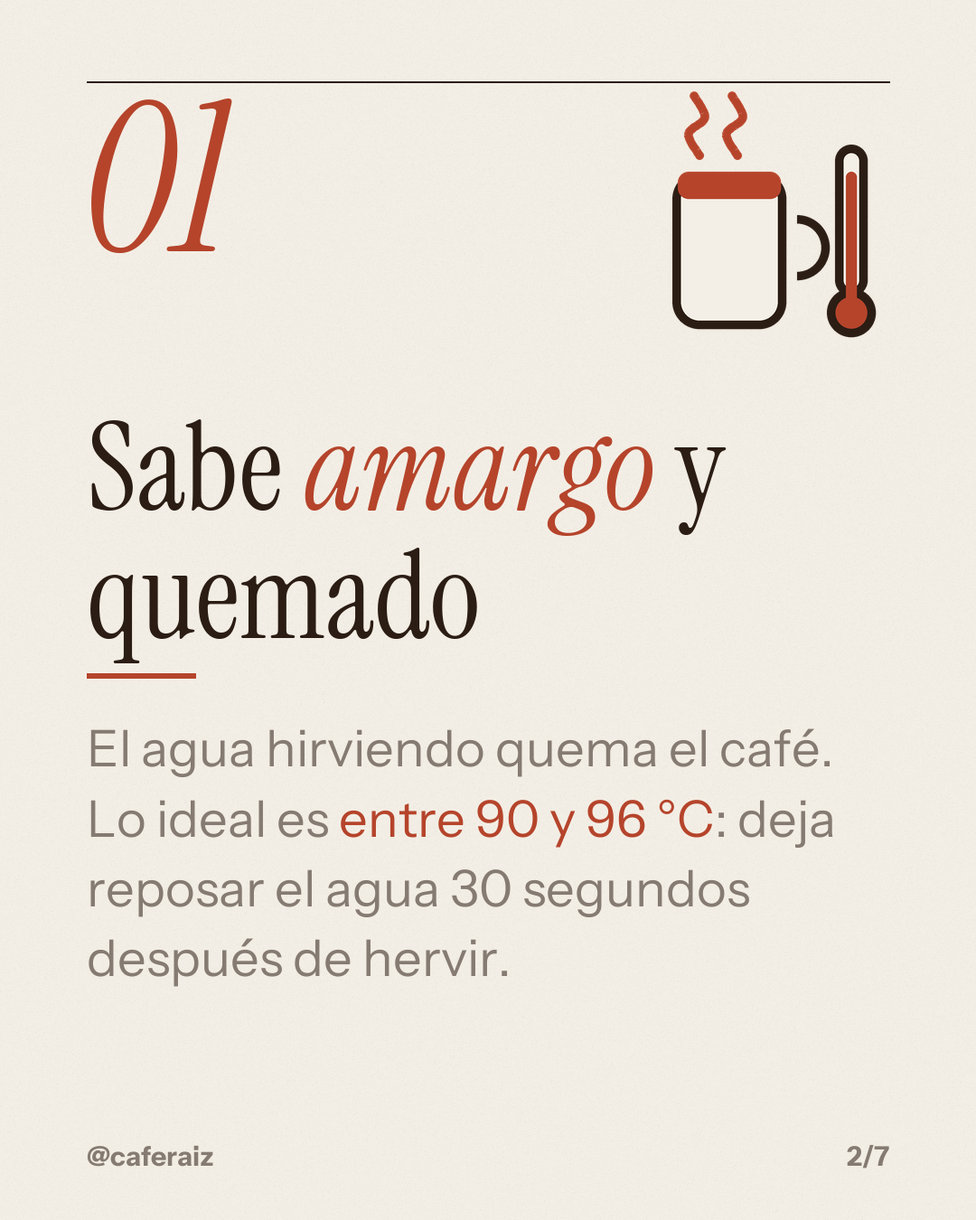
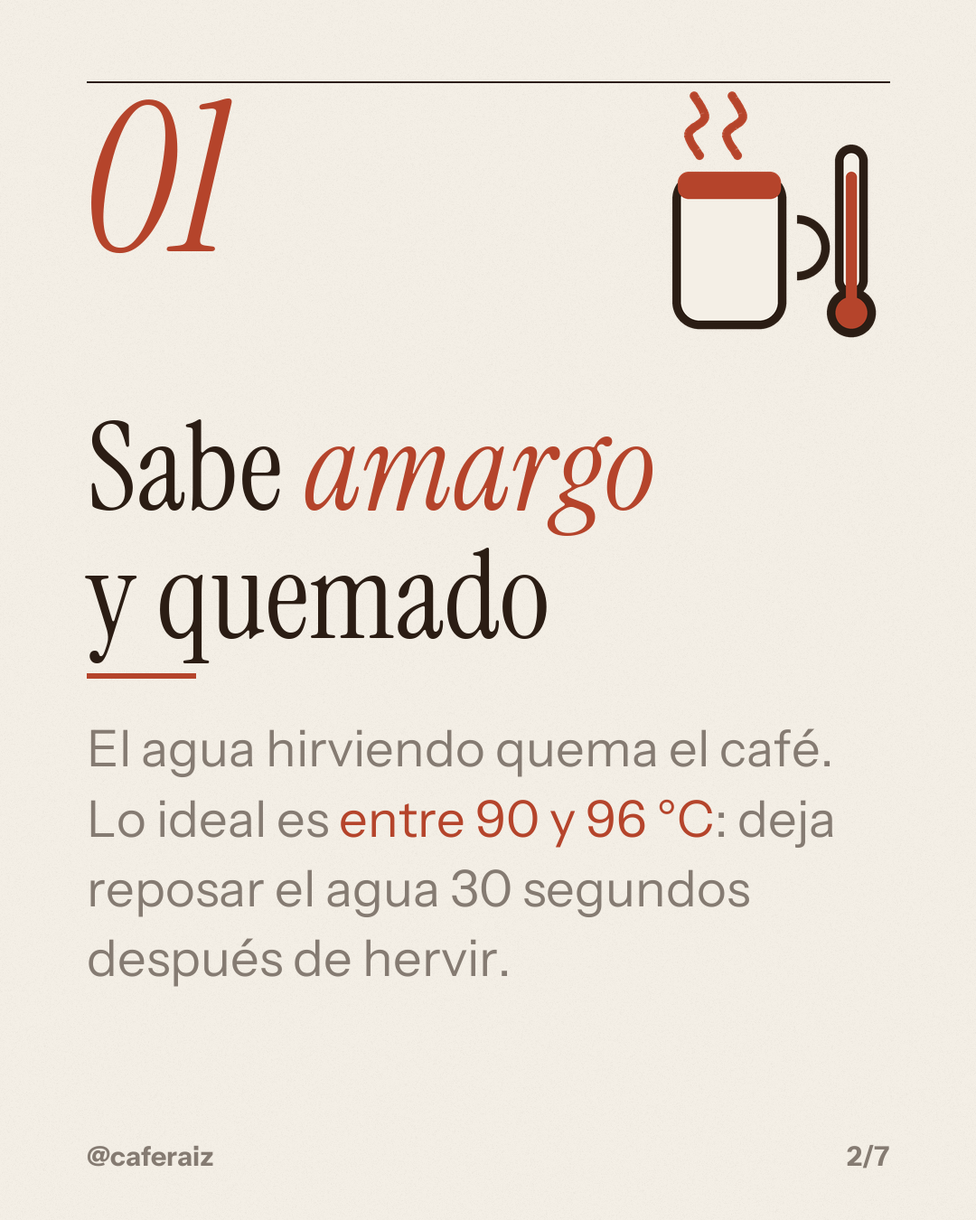
Guía corregida tras recorrerla como persona nueva; motor con atajos (--formato, --cta, --marca, --sin-marca, --solo-portada), comparar.py, vista con la marca elegida

Changed region(s): [[0.0917, 0.4356, 0.5806, 0.56], [0.7028, 0.3733, 0.7333, 0.4356]]

diff --git a/scripts/vista.py b/scripts/vista.py
@@ -1,7 +1,7 @@
 #!/usr/bin/env python3
 """carrusel-pro · enseña el carrusel como se va a ver publicado: dentro de un iPhone, en Instagram o en TikTok.
 
-  python3 vista.py <carpeta del carrusel> [--guion guion.json] [--red instagram|tiktok]
+  python3 vista.py <carpeta del carrusel> [--guion guion.json] [--marca marca.json] [--red instagram|tiktok]
 
 Lee 01.png (y cuenta las láminas), la marca del guion (logo y @usuario) y, si existe, descripcion.txt.
 Deja `vista-instagram.png` o `vista-tiktok.png` (1080×1350) en la carpeta e imprime:  VISTA <ruta>
@@ -15,7 +15,8 @@ AQUI = os.path.dirname(os.path.abspath(__file__))
 sys.path.insert(0, AQUI)
 import marcos
 
-W, H = 1170, 2532          # pantalla de iPhone 15 a 3x
+W, H = 1170, 2532
+ACENTO = {}                # color e inicial de la marca para la foto de perfil cuando no hay logo          # pantalla de iPhone 15 a 3x
 NEGRO, GRIS, BLANCO = (0, 0, 0), (115, 115, 115), (255, 255, 255)
 
 
@@ -32,8 +33,15 @@ def avatar(logo, lado, color=(226, 61, 46)):
         base = Image.new("RGBA", (lado, lado), BLANCO + (255,))
         lg.thumbnail((int(lado * 0.8), int(lado * 0.8)))
         base.alpha_composite(lg, ((lado - lg.width) // 2, (lado - lg.height) // 2))
-    else:
+    else:                                     # sin logo: el color de su marca con su inicial
+        color = ACENTO.get("c", color)
         base = Image.new("RGBA", (lado, lado), color + (255,))
+        ini = ACENTO.get("ini", "")
+        if ini:
+            fi = f("InstrumentSans-Bold.ttf", lado * 0.5)
+            dd = ImageDraw.Draw(base)
+            claro = sum(color) > 480
+            dd.text((lado / 2 - fi.getlength(ini) / 2, lado * 0.2), ini, font=fi, fill=(17, 17, 17) if claro else BLANCO)
     a.paste(base, (0, 0), m)
     return a
 
@@ -188,7 +196,7 @@ def tiktok(lam, n, usuario, logo, desc):
 
 def main():
     a = sys.argv[1:]
-    if not a:
+    if not a or a[0] in ("-h", "--help"):
         print(__doc__); sys.exit(1)
     carpeta = a[0]
     guion = a[a.index("--guion") + 1] if "--guion" in a else None
@@ -198,17 +206,27 @@ def main():
         marca = json.load(open(guion, encoding="utf-8")).get("marca", {})
         if marca.get("logo") and not os.path.isabs(marca["logo"]):
             marca["logo"] = os.path.join(os.path.dirname(os.path.abspath(guion)), marca["logo"])
+    if "--marca" in a:                       # la marca elegida (marca.json de marca.py o inventada) manda
+        mj = a[a.index("--marca") + 1]
+        mm = json.load(open(mj, encoding="utf-8"))
+        marca = {"usuario": mm.get("usuario") or "@" + "".join(ch for ch in (mm.get("nombre") or "tu_marca").lower() if ch.isalnum()),
+                 "logo": mm.get("logo") if mm.get("logo") and os.path.exists(mm["logo"]) else None}
     pngs = sorted(x for x in os.listdir(carpeta) if x[:2].isdigit() and x.endswith(".png"))
     subs = [r for r in ("instagram", "tiktok") if os.path.isdir(os.path.join(carpeta, r))]
     if not pngs and subs and "--red" not in a:     # formato "ambos"/"todos": una vista por red
         import subprocess
         for r in subs:
             subprocess.run([sys.executable, os.path.abspath(__file__), os.path.join(carpeta, r)] +
-                           (["--guion", guion] if guion else []) + ["--red", r])
+                           (["--guion", guion] if guion else []) +
+                           (["--marca", a[a.index("--marca") + 1]] if "--marca" in a else []) + ["--red", r])
         return
     if not pngs:
         print("NADA no hay láminas (01.png…) en esa carpeta"); sys.exit(2)
     lam = Image.open(os.path.join(carpeta, pngs[0]))
+    col = (mm if "--marca" in a else marca).get("colores", {}).get("acento") if ("--marca" in a or marca) else None
+    if col:
+        ACENTO["c"] = tuple(int(col.lstrip("#")[i:i + 2], 16) for i in (0, 2, 4))
+    ACENTO["ini"] = (marca.get("usuario") or "@").lstrip("@")[:1].upper()
     desc = ""
     for cand in (os.path.join(carpeta, "descripcion.txt"), os.path.join(os.path.dirname(os.path.normpath(carpeta)), "descripcion.txt")):
         if os.path.exists(cand):

diff --git a/scripts/carrusel.py b/scripts/carrusel.py
@@ -103,7 +103,7 @@ def lineas(texto, f, ancho):
             actual.append((pal, enf, peg and bool(actual)))
             w_act += (esp if len(actual) > 1 and not peg else 0) + w
         # sin palabra suelta en el último renglón ("…al día / 1"): se baja una palabra del renglón de arriba
-        if res and len(actual) == 1 and len(res[-1]) >= 3 and not actual[0][2]:
+        if res and len(actual) == 1 and len(res[-1]) >= 2 and not actual[0][2]:
             prueba = [res[-1][-1]] + actual
             if ancho_linea(prueba, f) <= ancho:
                 res[-1], actual = res[-1][:-1], prueba
@@ -679,9 +679,27 @@ def render(guion, salida):
     return rutas
 
 
+def opciones(args):
+    """Atajos para no tener que copiar ni editar el guion:
+    --formato instagram|tiktok|linkedin|ambos|todos · --cta "texto del cierre" · --sin-marca (para el «antes»)
+    · --solo-portada (para comparar marcas) · --marca marca.json (usa una marca de marca.py) · --plantilla X"""
+    o, resto, i = {}, [], 0
+    while i < len(args):
+        a = args[i]
+        if a in ("--formato", "--cta", "--marca", "--plantilla"):
+            o[a[2:]] = args[i + 1]; i += 2
+        elif a in ("--sin-marca", "--solo-portada"):
+            o[a[2:]] = True; i += 1
+        else:
+            resto.append(a); i += 1
+    return o, resto
+
+
 if __name__ == "__main__":
-    if len(sys.argv) < 2:
-        print(__doc__)
+    op, argv = opciones(sys.argv[1:])
+    sys.argv = [sys.argv[0]] + argv
+    if len(sys.argv) < 2 or sys.argv[1] in ("-h", "--help"):
+        print(__doc__ + "\n" + opciones.__doc__)
         sys.exit(1)
     try:
         with open(sys.argv[1], encoding="utf-8") as fh:
@@ -692,6 +710,36 @@ if __name__ == "__main__":
     except OSError:
         print(f"ERROR no existe el guion «{sys.argv[1]}»."); sys.exit(2)
     salida = sys.argv[2] if len(sys.argv) > 2 else guion.get("salida", "carrusel")
+    if op.get("formato"):
+        guion["formato"] = op["formato"]
+    if op.get("plantilla"):
+        guion["plantilla"] = op["plantilla"]
+    if op.get("marca"):
+        mj = json.load(open(op["marca"], encoding="utf-8"))
+        usuario_antes = guion.get("marca", {}).get("usuario")
+        guion["marca"] = {k: mj[k] for k in ("nombre", "usuario", "colores", "logo", "fuentes") if mj.get(k)}
+        guion["marca"].setdefault("usuario", usuario_antes or "@" + re.sub(r"\W", "", (mj.get("nombre") or "tu_marca").lower()))
+        bm = os.path.dirname(os.path.abspath(op["marca"]))           # rutas de la marca: junto a su marca.json
+        def en_bm(r):
+            for cand in (r, os.path.join(bm, r), os.path.join(os.path.dirname(bm), r)):
+                if os.path.isabs(cand) and os.path.exists(cand):
+                    return cand
+            return os.path.join(bm, r) if not os.path.isabs(r) else r
+        if guion["marca"].get("logo"):
+            guion["marca"]["logo"] = en_bm(guion["marca"]["logo"])
+        guion["marca"]["fuentes"] = {k: en_bm(v) for k, v in (guion["marca"].get("fuentes") or {}).items()
+                                     if isinstance(v, str)}
+        if mj.get("estilo_sugerido") and not op.get("plantilla"):
+            guion["plantilla"] = mj["estilo_sugerido"]
+    if op.get("sin-marca"):
+        guion["marca"] = {"usuario": "@tu_cuenta"}
+        guion["plantilla"] = op.get("plantilla", "minimal")
+    if op.get("cta"):
+        for sl in guion["slides"]:
+            if sl.get("tipo") == "cierre":
+                sl["cta"] = op["cta"]
+    if op.get("solo-portada"):
+        guion["slides"] = guion["slides"][:1]
     base = os.path.dirname(os.path.abspath(sys.argv[1]))
     # rutas relativas (logo, fotos) se buscan junto al guion
     m = guion.get("marca", {})

diff --git a/scripts/comparar.py b/scripts/comparar.py
@@ -1,0 +1,53 @@
+#!/usr/bin/env python3
+"""carrusel-pro · junta imágenes lado a lado con un número grande (y una etiqueta) encima de cada una,
+para que la persona elija viendo: «¿cuál te gusta? Responde 1, 2 o 3» o el antes y después.
+
+  python3 comparar.py <img1> <img2> [<img3> <img4>] --salida comparar.jpg [--etiquetas "Sin marca" "Con tu marca"]
+
+Imprime:  COMPARAR <ruta>
+"""
+import os, sys
+from PIL import Image, ImageDraw, ImageFont
+
+AQUI = os.path.dirname(os.path.abspath(__file__))
+F = os.path.join(AQUI, "..", "fuentes", "InstrumentSans-Bold.ttf")
+
+
+def main():
+    a = sys.argv[1:]
+    if not a or a[0] in ("-h", "--help"):
+        print(__doc__); sys.exit(1)
+    salida = a[a.index("--salida") + 1] if "--salida" in a else "comparar.jpg"
+    etiquetas = []
+    if "--etiquetas" in a:
+        i = a.index("--etiquetas") + 1
+        while i < len(a) and not a[i].startswith("--"):
+            etiquetas.append(a[i]); i += 1
+    valores = {salida, *etiquetas}
+    imgs = [x for x in a if not x.startswith("--") and x not in valores and os.path.isfile(x)][:4]
+    if len(imgs) < 2:
+        print("ERROR necesito al menos 2 imágenes que existan"); sys.exit(2)
+    ims = [Image.open(x).convert("RGB") for x in imgs]
+    alto = 900
+    ims = [im.resize((int(im.width * alto / im.height), alto), Image.LANCZOS) for im in ims]
+    m, cab = 40, 110
+    W = sum(im.width for im in ims) + m * (len(ims) + 1)
+    hoja = Image.new("RGB", (W, alto + cab + m), (244, 245, 247))
+    d = ImageDraw.Draw(hoja)
+    fn, fe = ImageFont.truetype(F, 64), ImageFont.truetype(F, 40)
+    x = m
+    for k, im in enumerate(ims):
+        d.ellipse([x, 22, x + 70, 92], fill=(17, 17, 17))
+        t = str(k + 1)
+        d.text((x + 35 - fn.getlength(t) / 2, 20), t, font=fn, fill=(255, 255, 255))
+        if k < len(etiquetas):
+            d.text((x + 90, 36), etiquetas[k], font=fe, fill=(17, 17, 17))
+        hoja.paste(im, (x, cab))
+        x += im.width + m
+    os.makedirs(os.path.dirname(os.path.abspath(salida)), exist_ok=True)
+    hoja.save(salida, quality=90)
+    print(f"COMPARAR {salida}")
+
+
+if __name__ == "__main__":
+    main()

diff --git a/guia/leccion-2.md b/guia/leccion-2.md
@@ -1,6 +1,8 @@
 # Lección 2 · Con tu marca (~2 min)
 
-> Guion para Claude. Lee `guia/estilo.md`. Retoma lo que te dijo en el paso 1 (`tema`, `destino`, `objetivo`).
+> Guion para Claude. Lee `guia/estilo.md`. Retoma lo que te dijo en el paso 1 (`tema`, `destino`, `objetivo`). Aquí no hay botones al abrir: el mensaje cierra el turno con opciones numeradas (en la app, el texto antes de unos botones no se lee).
+
+## 1 · Apertura (mensaje propio, cierra el turno)
 
 ```
 ━━━━━━━━━━━━━━━━━━━━━━━━━━━━━━━━━━━━━━━━━━
@@ -9,32 +11,38 @@
 ━━━━━━━━━━━━━━━━━━━━━━━━━━━━━━━━━━━━━━━━━━
 ```
 
-"Tu carrusel ya funciona. Ahora que se vea **tuyo**: que alguien lo vea en el feed y sepa que es de [su negocio / ti] sin leer el nombre."
+"Tu carrusel ya funciona. Ahora que se vea **tuyo**: que alguien lo vea en el feed y sepa que es de [su negocio / ti] sin leer el nombre. Eso es lo que hace que [objetivo: te escriban / te recuerden / te sigan]."
 
-**BOTONES** · "¿De dónde saco tu marca? Nunca necesito tu contraseña ni entrar a tu cuenta."
-- **De mi página web (recomendado)** — "me pasas el link y saco tu logo, tus colores, tu letra y hasta fotos tuyas"
-- **De mi Instagram** — "me mandas una captura de tu perfil y saco tus colores (Instagram no deja leer perfiles desde fuera)"
-- **Invéntame una** — "te propongo 3 marcas y eliges viendo tu portada en cada una"
-- **Te paso mis colores y mi logo** — "códigos de color o una foto de donde salen, y tu logo en PNG"
+"¿De dónde saco tu marca? Nunca necesito tu contraseña ni entrar a tu cuenta:"
+1. **De mi página web** — me pasas el link y saco tu logo, tus colores, tu letra y hasta fotos tuyas
+2. **De mi Instagram** — me mandas una captura de tu perfil y saco tus colores (Instagram no deja leer perfiles desde fuera)
+3. **Invéntame una** — te propongo 3 marcas y eliges viéndolas
+4. **Te paso mis colores y mi logo** — o una foto de donde salen
 
-**ALTO.** Pide lo que haga falta una sola vez (el link, o la captura arrastrándola al chat; rutas de ejemplo genéricas `/Users/tu-nombre/Desktop/perfil.png`). Si dijo "el de ejemplo" en el paso 1 y no tiene nada a la mano, ofrece **Invéntame una**. **ALTO.**
+"Responde 1, 2, 3 o 4 (y si es la 1, pega tu link de una vez)." **ALTO.**
 
-**Aviso antes:** "Saco tu marca y vuelvo a dibujar tu carrusel con ella. Menos de un minuto."
+## 2 · Su marca, en su carrusel
 
-**ACCIÓN:** Paso 2 del SKILL.md (`marca.py web` o `marca.py capturas`; con "Invéntame una", 3 portadas lado a lado). Si sacó fotos de su página, úsalas en la portada. Renderiza **todo el carrusel** con su marca y su @usuario, saca la vista y arma una imagen `antes-despues.jpg` con la portada sin marca a la izquierda y con marca a la derecha. **Míralas** antes de enseñarlas.
+Si eligió 2 o 4 y no mandó lo que hace falta, pídelo una sola vez (la captura se arrastra al chat; rutas de ejemplo genéricas `/Users/tu-nombre/Desktop/perfil.png`). **ALTO.**
+
+**Aviso (una línea):** "Saco tu marca y vuelvo a dibujar tu carrusel con ella. Menos de un minuto."
+
+**ACCIÓN, en silencio** (`<guion>` = el guion del paso 1; con el ejemplo, `<skill>/ejemplos/cafeteria.json`; agrega siempre `--formato` y `--cta` del paso 1):
+- **1 o 2:** Paso 2 del SKILL.md (`marca.py web` o `marca.py capturas`) → `<trabajo>/marca/marca.json`. Si sacó fotos de su página, ponle la primera a la portada.
+- **4:** arma tú `<trabajo>/marca/marca.json` con sus colores, logo y letra (si da el nombre de una letra: `fuentes.py bajar`).
+- **3 · Invéntame una:** 3 identidades distintas, **cada una con nombre y @ inventados** que le queden a su tema (p. ej. «Café Brasa · @cafebrasa»), su paleta y una letra de `fuentes.py ideas`. Escribe 3 `marca.json` (`<trabajo>/marca-1/`, `-2/`, `-3/`), dibuja solo la portada de cada una (`carrusel.py <guion> <trabajo>/opcion-1 --marca <trabajo>/marca-1/marca.json --solo-portada`) y júntalas: `comparar.py <…>/opcion-1/01.png <…>/opcion-2/01.png <…>/opcion-3/01.png --salida <trabajo>/3-marcas.jpg --etiquetas "<nombre 1>" "<nombre 2>" "<nombre 3>"`.
+- **El antes y después** (1, 2 y 4): `carrusel.py <guion> <trabajo>/antes --sin-marca --solo-portada`, todo el carrusel con su marca (`carrusel.py <guion> <trabajo>/listo --marca <trabajo>/marca/marca.json`), y `comparar.py <trabajo>/antes/01.png <trabajo>/listo/01.png --salida <trabajo>/antes-despues.jpg --etiquetas "Sin marca" "Con tu marca"`. Saca la vista nueva (`vista.py <trabajo>/listo --guion <guion> --marca <trabajo>/marca/marca.json`). **Mira todo** antes de enseñarlo.
 
 **MENSAJE obligatorio (cierra el turno):**
-- **Resultado:** `marca.jpg` (lo que saqué: logo, colores y su letra, dicha por su nombre; si es una parecida porque la suya es de pago, dilo) y `antes-despues.jpg`, luego la vista nueva.
-- Con 3 opciones: "¿Cuál te gusta? Responde 1, 2 o 3." Con su marca: "¿Así se siente como tú? Responde «sí» o dime qué no te late."
+- **1, 2 o 4:** `marca.jpg` (lo que saqué: logo, colores y **su letra, por su nombre**; si es una parecida porque la suya es de pago, dilo), `antes-despues.jpg` y la vista nueva. Una línea sobre su objetivo ("Con tu logo arriba, quien lo vea ya sabe a quién escribirle").
+- **3:** `3-marcas.jpg` y en una línea qué tiene cada una ("1 · Café Brasa: cálida y artesanal · 2 · …").
+- Cierra con **una sola lista** (así se piden cambios, nada más fácil):
+  - Con su marca: "¿Cómo lo dejamos? 1 · Así está perfecto · 2 · Un gancho más fuerte · 3 · Otra letra o estilo · 4 · Otra imagen. Responde con el número."
+  - Con 3 opciones: "¿Cuál te gusta? Responde 1, 2 o 3."
 
-**ALTO.** Si eligió o corrigió, aplícalo y míralo.
+**ALTO.**
+- **Eligió una de las 3:** dibuja todo el carrusel con esa marca (`--marca <trabajo>/marca-N/marca.json`), saca la vista (`vista.py … --marca <trabajo>/marca-N/marca.json`) y enséñala en un mensaje con la misma lista de cambios (1 · Así está perfecto…). **ALTO.**
+- **Pidió un cambio (2, 3 o 4):** hazlo (con «otra letra»: `fuentes.py muestra` con 3 que le van y que elija con el número), dibuja, míralo y enséñalo en un mensaje con una línea de qué cambió y la misma lista. **ALTO.**
+- **Así está perfecto:** sigue al cierre.
 
-**BOTONES** · "Ya tiene tu marca. ¿Le cambio algo? Así de fácil se piden cambios."
-- **Así está perfecto** — "pasamos al último paso"
-- **Un gancho más fuerte** — "reescribo la portada para que den ganas de deslizar"
-- **Otra letra o estilo** — "te enseño 3 letras que le van a tu marca, o lo paso a Editorial, Minimal, Bloque o Cuaderno"
-- **Otra imagen** — "cambio la foto o el dibujo que no te convenza"
-
-**ALTO.** Haz el cambio, renderiza, míralo y celébralo en una línea.
-
-**Cierre:** **Lo que lograste** (3 viñetas) y "En el último paso lo dejamos listo para subir en todas tus redes, con la descripción. Escríbeme «sigue»." **ALTO.** Guarda `"leccion": 3`.
+**Cierre (en el mensaje del «así está perfecto»):** **Lo que lograste** (3 viñetas) y "En el último paso lo dejamos listo para subir en todas tus redes, con la descripción. Escríbeme «sigue»." **ALTO.** Guarda `"leccion": 3`.

diff --git a/guia/leccion-1.md b/guia/leccion-1.md
@@ -1,6 +1,6 @@
 # Lección 1 · Tu primer carrusel (~2 min)
 
-> Guion para Claude. Antes lee `guia/estilo.md`. Entre comillas va la idea de lo que dices (con tus palabras). **ACCIÓN** = lo haces tú. **BOTONES** = pregunta con `AskUserQuestion` (si no existe, lista numerada corta). **ALTO** = esperas. Nunca sigas sin respuesta. Progreso en `~/.dakexplica/dak-carrusel-pro.json` (`"leccion": 1`). En la app de Claude no hay archivo: lleva el progreso en el chat.
+> Guion para Claude. Antes lee `guia/estilo.md`. Entre comillas va la idea de lo que dices (con tus palabras). **ACCIÓN** = lo haces tú. **BOTONES** = pregunta con `AskUserQuestion` (si no existe, lista numerada corta). **ALTO** = esperas. Nunca sigas sin respuesta. Progreso en `~/.dakexplica/dak-carrusel-pro.json` (`"leccion": 1`). En la app de Claude no hay archivo: lleva el progreso en el chat. `<trabajo>` = `~/carrusel-pro/<tema-corto>/` (con el ejemplo, `~/carrusel-pro/ejemplo-cafeteria/`).
 
 ## 1 · Bienvenida (tu PRIMER mensaje, antes de cualquier botón o comando)
 
@@ -22,14 +22,16 @@
 
 - Si no sabes su nombre: "¡Hola! Bienvenido a la guía 👋" y cierra con **"Antes de empezar, ¿cómo te llamo?"**. Si lo sabes: **"Cuando estés listo, escríbeme «vamos»."** **ALTO** (fin del turno). Guarda `"nombre"`.
 
-**Siguiente turno:** reacciona en una línea ("¡Mucho gusto, [nombre]!") y **BOTONES** (tres preguntas en la misma ventana):
+**Siguiente turno:** reacciona en una línea ("¡Mucho gusto, [nombre]!") y **BOTONES** (tres preguntas en la misma ventana; lo importante va dentro de cada opción):
 1. "¿De qué hacemos tu primer carrusel?"
    - **De lo mío** — "tu negocio, tu trabajo o un tema que te guste; me lo escribes en el siguiente paso"
    - **El de ejemplo** — "una cafetería: cómo saber si tu café está mal hecho. Sale en segundos"
 2. "¿Dónde lo vas a publicar?" · **Instagram** · **TikTok (modo foto)** · **LinkedIn** · **Todo lo anterior**
 3. "¿Qué quieres lograr con tus carruseles?" · **Vender más** · **Enseñar algo** · **Que me conozcan** · **Todo lo anterior**
 
-**ALTO.** Reacciona a lo que eligió ("Vender, perfecto: la última lámina va a invitar a escribirte") y guarda `tema`, `destino` y `objetivo`.
+**ALTO.** Guarda `tema`, `destino` y `objetivo`. Con eso ya decides dos cosas (sin decirlas como técnica):
+- **Formato:** Instagram → `instagram` · TikTok → `tiktok` · LinkedIn → `linkedin` · Todo → `todos`.
+- **El cierre (CTA) según lo que quiere:** Vender → «Escríbenos por mensaje» · Enseñar → «Guárdalo para después» · Que me conozcan → «Síguenos para más» · Todo → «Guárdalo y síguenos».
 
 ## 2 · Lista para dibujar
 
@@ -37,25 +39,25 @@
 
 ## 3 · Tu primer carrusel
 
-- **De lo suyo:** aquí la persona escribe la **única instrucción de toda la guía**. "Ahora te toca a ti. Copia esto y cambia el tema por el tuyo:"
+- **De lo suyo:** aquí la persona escribe la **única instrucción de toda la guía**. Reacciona a lo que quiere lograr en una línea y: "Ahora te toca a ti. Copia esto y cambia el tema por el tuyo:"
 
   > **Usando la skill dak-carrusel-pro, hazme un carrusel sobre [tu tema]**
 
-  **ALTO.** Con lo que escriba, **no hagas la ronda de preguntas** (ya sabes `destino` y `objetivo`): estilo "Decide tú", **sin marca** (la marca es el paso 2), fotos reales + dibujos y logos reales si nombra apps. Avisa en una línea: "Escribo el texto de cada lámina, busco las imágenes, lo dibujo y lo reviso. Tarda 1 o 2 minutos."
+  **ALTO.** Con lo que escriba, **no hagas la ronda de preguntas** (ya sabes destino y objetivo): estilo "Decide tú", **sin marca** (la marca es el paso 2), fotos reales + dibujos, logos reales si nombra apps, y el CTA de arriba. Avisa en una línea: "Escribo el texto de cada lámina, busco las imágenes, lo dibujo y lo reviso. Tarda 1 o 2 minutos."
 
-  **ACCIÓN:** Pasos 3 a 6 del SKILL.md (6 o 7 láminas). Trabajo en `~/carrusel-pro/<tema-corto>/`. **Mira `_revision.jpg`** y corrige antes de enseñarlo. Escribe `descripcion.txt` y saca la vista (`vista.py`).
+  **ACCIÓN:** Pasos 3 a 6 del SKILL.md (6 o 7 láminas) en `<trabajo>`. **Mira `_revision.jpg`** y corrige antes de enseñarlo. Escribe `descripcion.txt` y saca la vista (`vista.py`).
 
-- **El de ejemplo:** avisa "Lo dibujo en unos segundos" y **ACCIÓN:**
+- **El de ejemplo:** reacciona a lo que quiere lograr en una línea, avisa "Lo dibujo en unos segundos" y **ACCIÓN** (cambia el formato y el CTA por los que decidiste):
   ```bash
-  python3 <skill>/scripts/carrusel.py <skill>/ejemplos/cafeteria.json ~/carrusel-pro/ejemplo-cafeteria
-  cp <skill>/ejemplos/resultado-cafeteria/descripcion.txt ~/carrusel-pro/ejemplo-cafeteria/
-  python3 <skill>/scripts/vista.py ~/carrusel-pro/ejemplo-cafeteria --guion <skill>/ejemplos/cafeteria.json
+  python3 <skill>/scripts/carrusel.py <skill>/ejemplos/cafeteria.json ~/carrusel-pro/ejemplo-cafeteria/listo --formato instagram --cta "Escríbenos por mensaje"
+  cp <skill>/ejemplos/resultado-cafeteria/descripcion.txt ~/carrusel-pro/ejemplo-cafeteria/listo/
+  python3 <skill>/scripts/vista.py ~/carrusel-pro/ejemplo-cafeteria/listo --guion <skill>/ejemplos/cafeteria.json
   ```
-  (Si eligió TikTok, en una copia del JSON pon `"formato": "tiktok"`; si eligió LinkedIn, `"linkedin"`.)
 
 **MENSAJE obligatorio (cierra el turno, nada de botones después):**
-- **Así se ve publicado:** abre `vista-instagram.png` (o `vista-tiktok.png`), y debajo `_revision.jpg` con todas las láminas. Di dónde está la carpeta.
-- En 3 líneas qué hace cada parte, empezando por lo que quiere lograr: "La portada es el gancho (es lo único que se ve en el feed) · cada lámina tiene una sola idea, con fotos reales y logos de verdad · la última cierra con [CTA según `objetivo`]".
-- **Lo que lograste** (2 viñetas) y "En el paso 2 le ponemos **tu marca**: me das tu página o una captura de tu Instagram y saco tus colores y tu logo. Escríbeme «sigue»."
+- **Así se ve publicado:** abre la vista (`vista-instagram.png`; con TikTok, `vista-tiktok.png`; con `todos`, las dos) y debajo `_revision.jpg`. Con LinkedIn no hay vista: enseña `_revision.jpg` y di que el PDF (`carrusel.pdf`) es lo que se sube. Di dónde está la carpeta.
+- En 3 líneas qué hace cada parte, **empezando por lo que quiere lograr**: "La última lámina dice «[CTA]», porque quieres [objetivo] · la portada es el gancho (es lo único que se ve en el feed) · cada lámina tiene una sola idea, con una foto real".
+- Con el ejemplo, deja la frase para la próxima: "Cuando lo hagas con lo tuyo, solo escribes: **«Usando la skill dak-carrusel-pro, hazme un carrusel sobre [tu tema]»**".
+- **Lo que lograste** (2 viñetas) y "En el paso 2 le ponemos **tu marca**: tu logo, tus colores y tu letra. Escríbeme «sigue»."
 
 **ALTO.** Guarda `"leccion": 2`.

diff --git a/guia/leccion-3.md b/guia/leccion-3.md
@@ -1,6 +1,13 @@
 # Lección 3 · Listo para subir (~1 min)
 
-> Guion para Claude. Lee `guia/estilo.md`. Aquí **no preguntas qué hacer**: lo haces completo y explicas qué cambió.
+> Guion para Claude. Lee `guia/estilo.md`. Aquí **no preguntas qué hacer**: lo haces completo y explicas qué cambió. Son 2 mensajes: el resultado y la despedida.
+
+**ACCIÓN (sin preguntar), en silencio** (`<guion>` y `--marca`/`--cta` como en el paso 2):
+1. **Todas las medidas:** `carrusel.py <guion> <trabajo>/todas --formato todos --marca <la marca elegida: marca/ o marca-N/>/marca.json --cta "<CTA>"` → `instagram/` (4:5), `tiktok/` (pantalla completa, lejos de los botones) y `linkedin/` (con `carrusel.pdf`, que es como LinkedIn muestra los carruseles). Míralas.
+2. **La descripción** (Paso 6 del SKILL.md) según su objetivo, en `<trabajo>/todas/descripcion.txt`, y las vistas: `vista.py <trabajo>/todas --guion <guion> --marca <la marca elegida>/marca.json` (saca la de Instagram y la de TikTok, con su @ y su logo).
+3. **Su marca guardada:** Claude Code → `~/.carrusel-pro/marca.json`. App de Claude → el bloque para pegar en un Proyecto.
+
+## Mensaje 1 · El resultado (cierra el turno)
 
 ```
 ━━━━━━━━━━━━━━━━━━━━━━━━━━━━━━━━━━━━━━━━━━
@@ -9,28 +16,21 @@
 ━━━━━━━━━━━━━━━━━━━━━━━━━━━━━━━━━━━━━━━━━━
 ```
 
-"Lo que más se le escapa a la gente: hacen un carrusel bonito y lo suben con una descripción de prisa, y solo en una red. Te lo dejo listo para todas."
+- "Lo que más se le escapa a la gente: un carrusel bonito con una descripción de prisa, y en una sola red. Ya tienes las tres."
+- **Resultado:** la vista de Instagram y la de TikTok, y en una línea "y el PDF para LinkedIn".
+- **La descripción** completa, lista para copiar (con una línea de por qué ayuda a su objetivo: "el gancho de arriba es lo que hace que lo abran").
+- **Cómo subirlo, en tu celular:** Instagram **+ → Publicación → selecciona varias** · TikTok **+ → Fotos** · LinkedIn **Empezar una publicación → + → Añadir un documento**.
+- "Y tu marca ya quedó guardada: la próxima vez no te pregunto tus colores."
+- **Cierra con UNA pregunta**, según lo que tenga (revísalo antes; solo lo que exista):
+  - Drive en la compu o su conector: "¿Te lo guardo en tu Google Drive para abrirlo directo en el celular? 1 · Sí · 2 · No, así está bien"
+  - Si no, conector de Canva o Adobe Express: "¿Te lo dejo también en Canva para editarlo ahí? 1 · Sí · 2 · No"
+  - Si no tiene nada: "Escríbeme «listo» para terminar." (y en una línea: "si algún día quieres Canva o Drive, se conectan gratis en Configuración → Conectores")
 
-**ACCIÓN (sin preguntar), en silencio:**
-1. **Todas las medidas:** `"formato": "todos"` y renderiza: `instagram/` (4:5), `tiktok/` (pantalla completa, lejos de los botones) y `linkedin/` (con `carrusel.pdf`, que es como LinkedIn muestra los carruseles). Míralas.
-2. **La descripción** (Paso 6 del SKILL.md) según su `objetivo`, en `descripcion.txt`, y la vista de TikTok (`vista.py <…>/tiktok --guion … --red tiktok`).
-3. **Texto alternativo** de la portada en una línea.
-4. **Su marca guardada:** Claude Code → `~/.carrusel-pro/marca.json`. App de Claude → el bloque para pegar en un Proyecto.
+**ALTO.** Con «Sí», sigue "Conectores" del SKILL.md (pide nada más: ya dijo que sí) y di en una línea qué hiciste y dónde quedó.
 
-**MENSAJE obligatorio (cierra el turno):**
-- **Resultado:** la vista de TikTok junto a la de Instagram, y las 3 carpetas en una línea.
-- **La descripción** completa, lista para copiar.
-- **Cómo subirlo:** "En tu celular: Instagram **+ → Publicación → selecciona varias**; TikTok **+ → Fotos**; LinkedIn **Empezar una publicación → + → Añadir un documento** con el PDF."
-- Su marca: "Ya quedó guardada: la próxima vez no te pregunto tus colores."
+## Mensaje 2 · Despedida (corta, no es un manual)
 
-**Mejora opcional (una sola vez, con botones, solo lo que exista):** revisa qué tiene.
-- Google Drive en la compu o su conector → "¿Te lo guardo en tu Drive para abrirlo directo en el celular?" · **Sí, en mi Drive** · **No, así está bien**.
-- Conector de Canva o Adobe Express → "¿Te lo dejo también en Canva para editarlo ahí?" · **Sí** · **No**.
-- Si no tiene ninguno: "Si algún día quieres editarlo en Canva o guardarlo en Drive, se conectan gratis en **Configuración → Conectores**." Sin botones.
-Con sí, sigue "Conectores" del SKILL.md, y avisa qué hiciste.
-
-**Cierre (despedida, no manual), en el mismo mensaje:**
-- **Lo que lograste** (3 viñetas: tu primer carrusel, con tu marca, listo para Instagram, TikTok y LinkedIn con su descripción).
+- **Lo que lograste** (3 viñetas: tu primer carrusel · con tu marca, como tú lo quisiste · listo para Instagram, TikTok y LinkedIn con su descripción).
 - "Desde ahora la skill hace todo esto **sola**, sin que le digas cada paso. Solo dile:"
   > **Usando la skill dak-carrusel-pro, hazme un carrusel sobre [tu tema]**
 - "Si quieres la siguiente herramienta gratis, sigue a @dakexplica en TikTok e Instagram."
